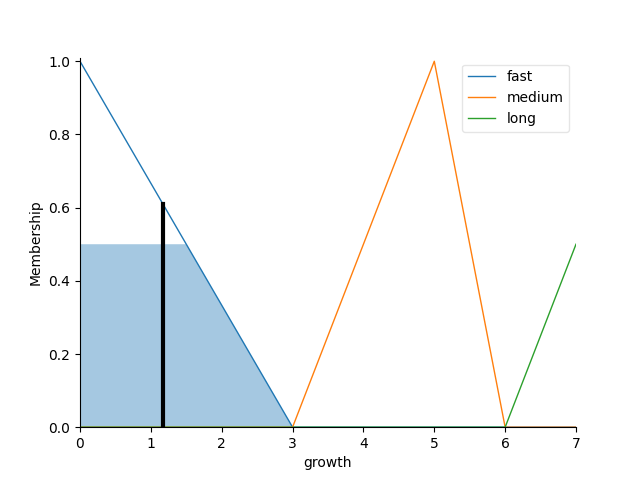
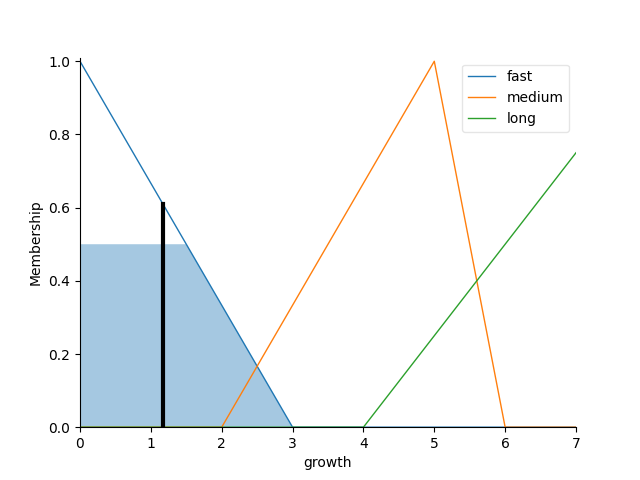
poprawki

diff --git a/zad2/fuzz_logic.py b/zad2/fuzz_logic.py
@@ -34,21 +34,21 @@ growth = ctrl.Consequent(np.arange(0, 8, 1), 'growth')
 """
 initialization of arguments assesment as labels 
 """
-ph['alkaline'] = fuzz.trimf(ph.universe, [0, 0, 6])
+ph['alkaline'] = fuzz.trimf(ph.universe, [0, 0, 7])
 ph['average'] = fuzz.trimf(ph.universe, [6, 7, 8])
-ph['acidic'] = fuzz.trimf(ph.universe, [8, 14, 14])
+ph['acidic'] = fuzz.trimf(ph.universe, [7, 14, 14])
 
-temp['low'] = fuzz.trimf(temp.universe, [0, 0, 17])
-temp['medium'] = fuzz.trimf(temp.universe, [17, 23, 25])
-temp['high'] = fuzz.trimf(temp.universe, [25, 35, 35])
+temp['low'] = fuzz.trimf(temp.universe, [0, 0, 20])
+temp['medium'] = fuzz.trimf(temp.universe, [17, 23, 26])
+temp['high'] = fuzz.trimf(temp.universe, [24, 35, 35])
 
-humidity['low'] = fuzz.trimf(humidity.universe, [0, 0, 5])
-humidity['medium'] = fuzz.trimf(humidity.universe, [5, 6, 7])
+humidity['low'] = fuzz.trimf(humidity.universe, [0, 0, 6])
+humidity['medium'] = fuzz.trimf(humidity.universe, [4, 6, 8])
 humidity['high'] = fuzz.trimf(humidity.universe, [7, 10, 10])
 
 growth['fast'] = fuzz.trimf(growth.universe, [0, 0, 3])
-growth['medium'] = fuzz.trimf(growth.universe, [3, 5, 6])
-growth['long'] = fuzz.trimf(growth.universe, [6, 8, 8])
+growth['medium'] = fuzz.trimf(growth.universe, [2, 5, 6])
+growth['long'] = fuzz.trimf(growth.universe, [4, 8, 8])
 
 """
 Print graph for each argument scale and assesment 
